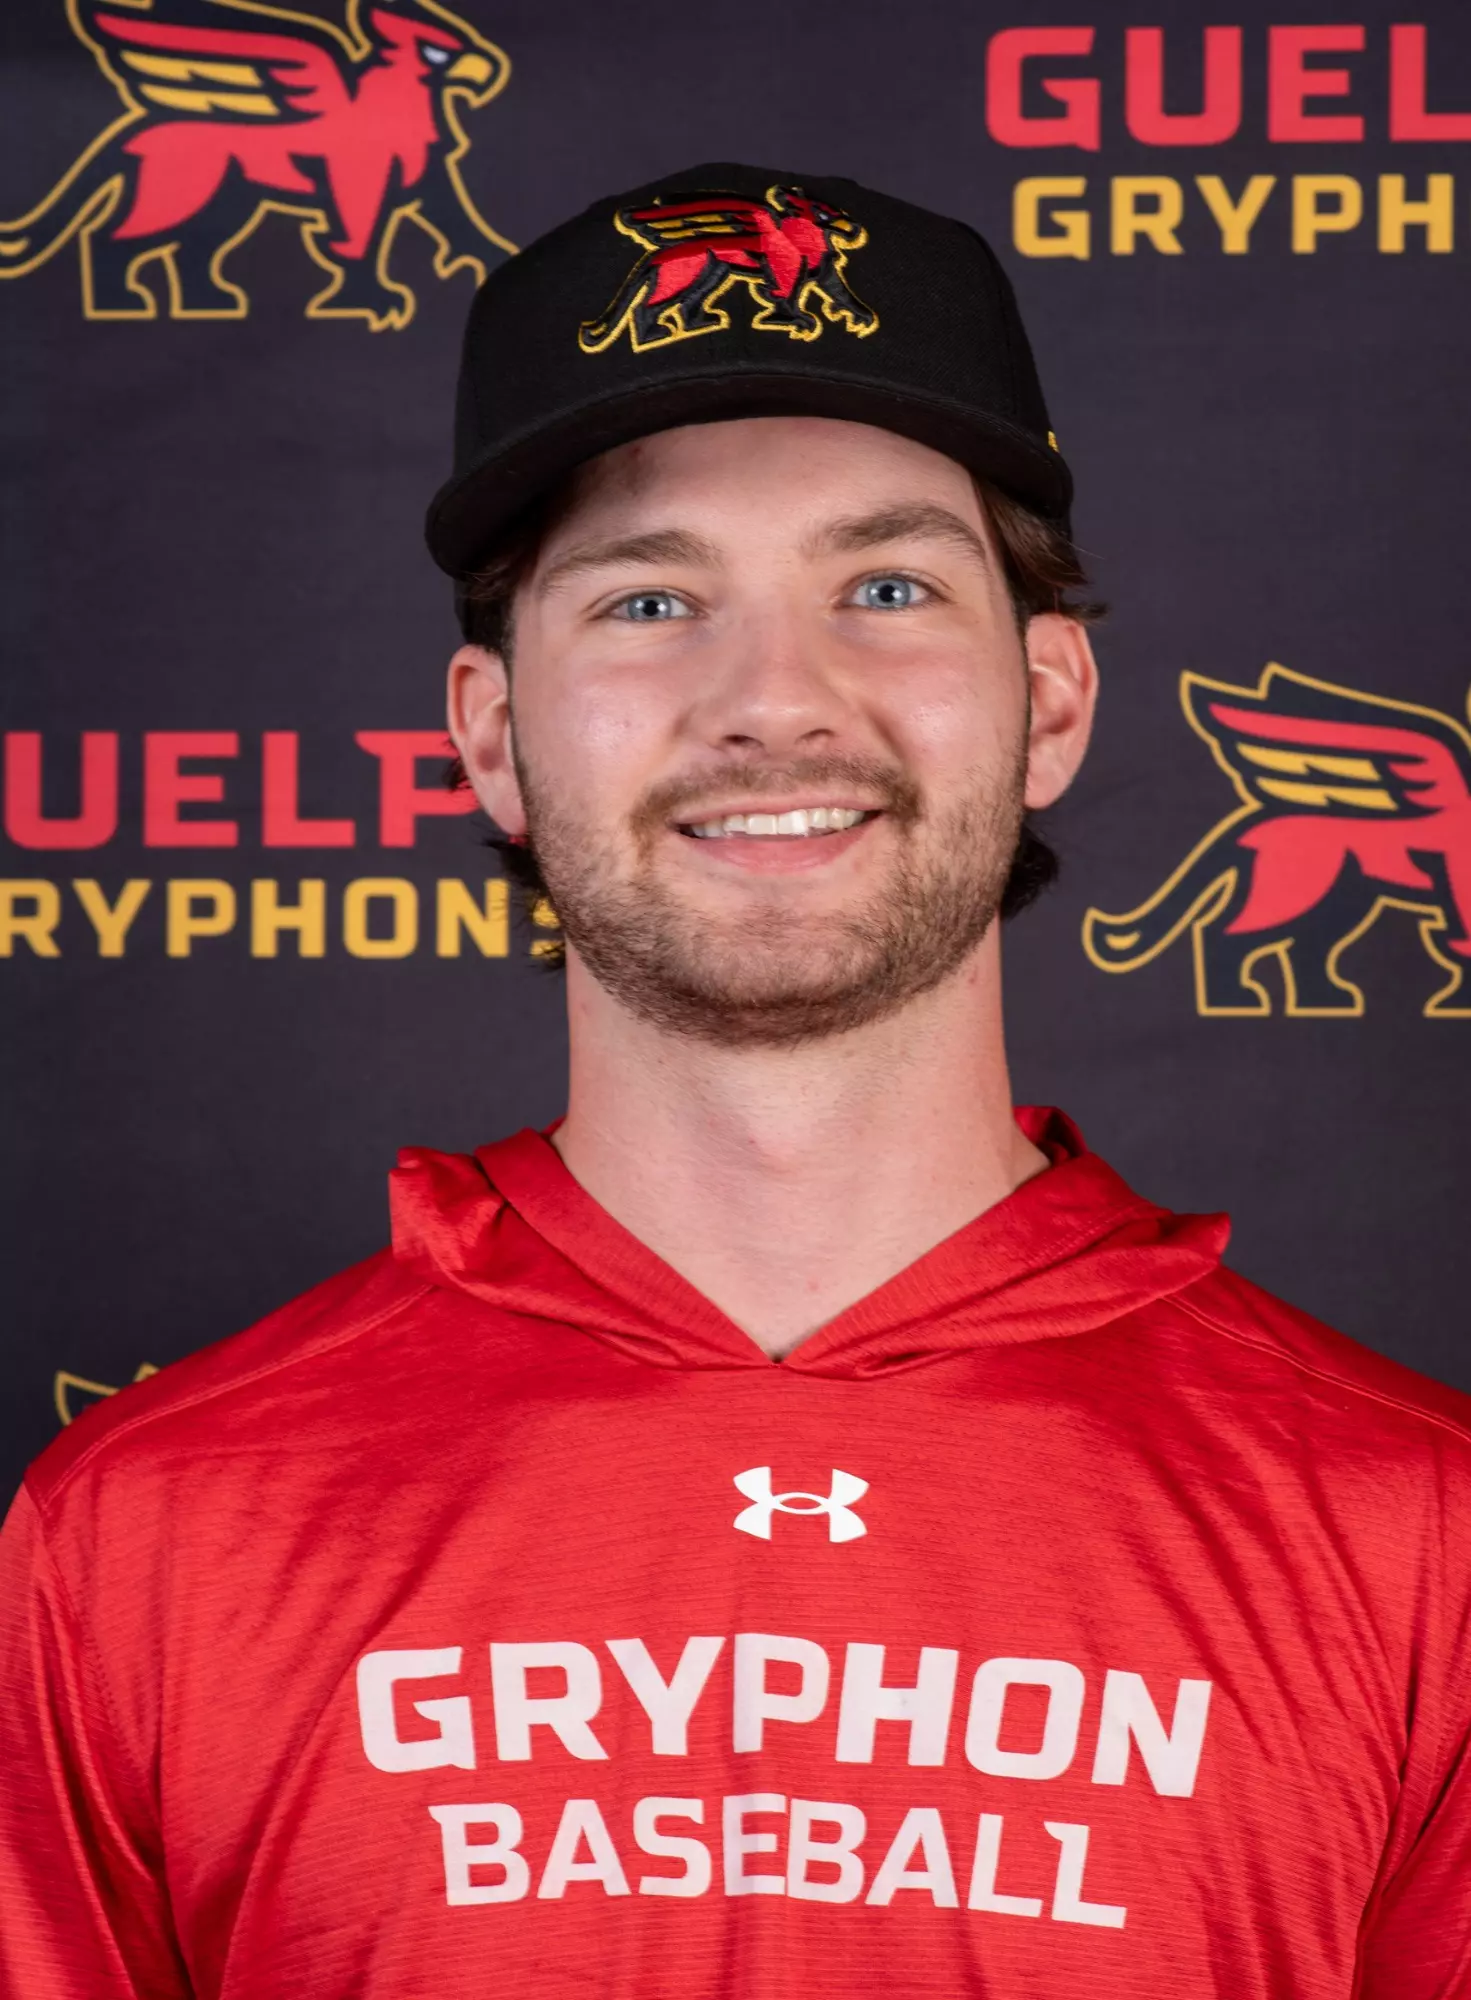
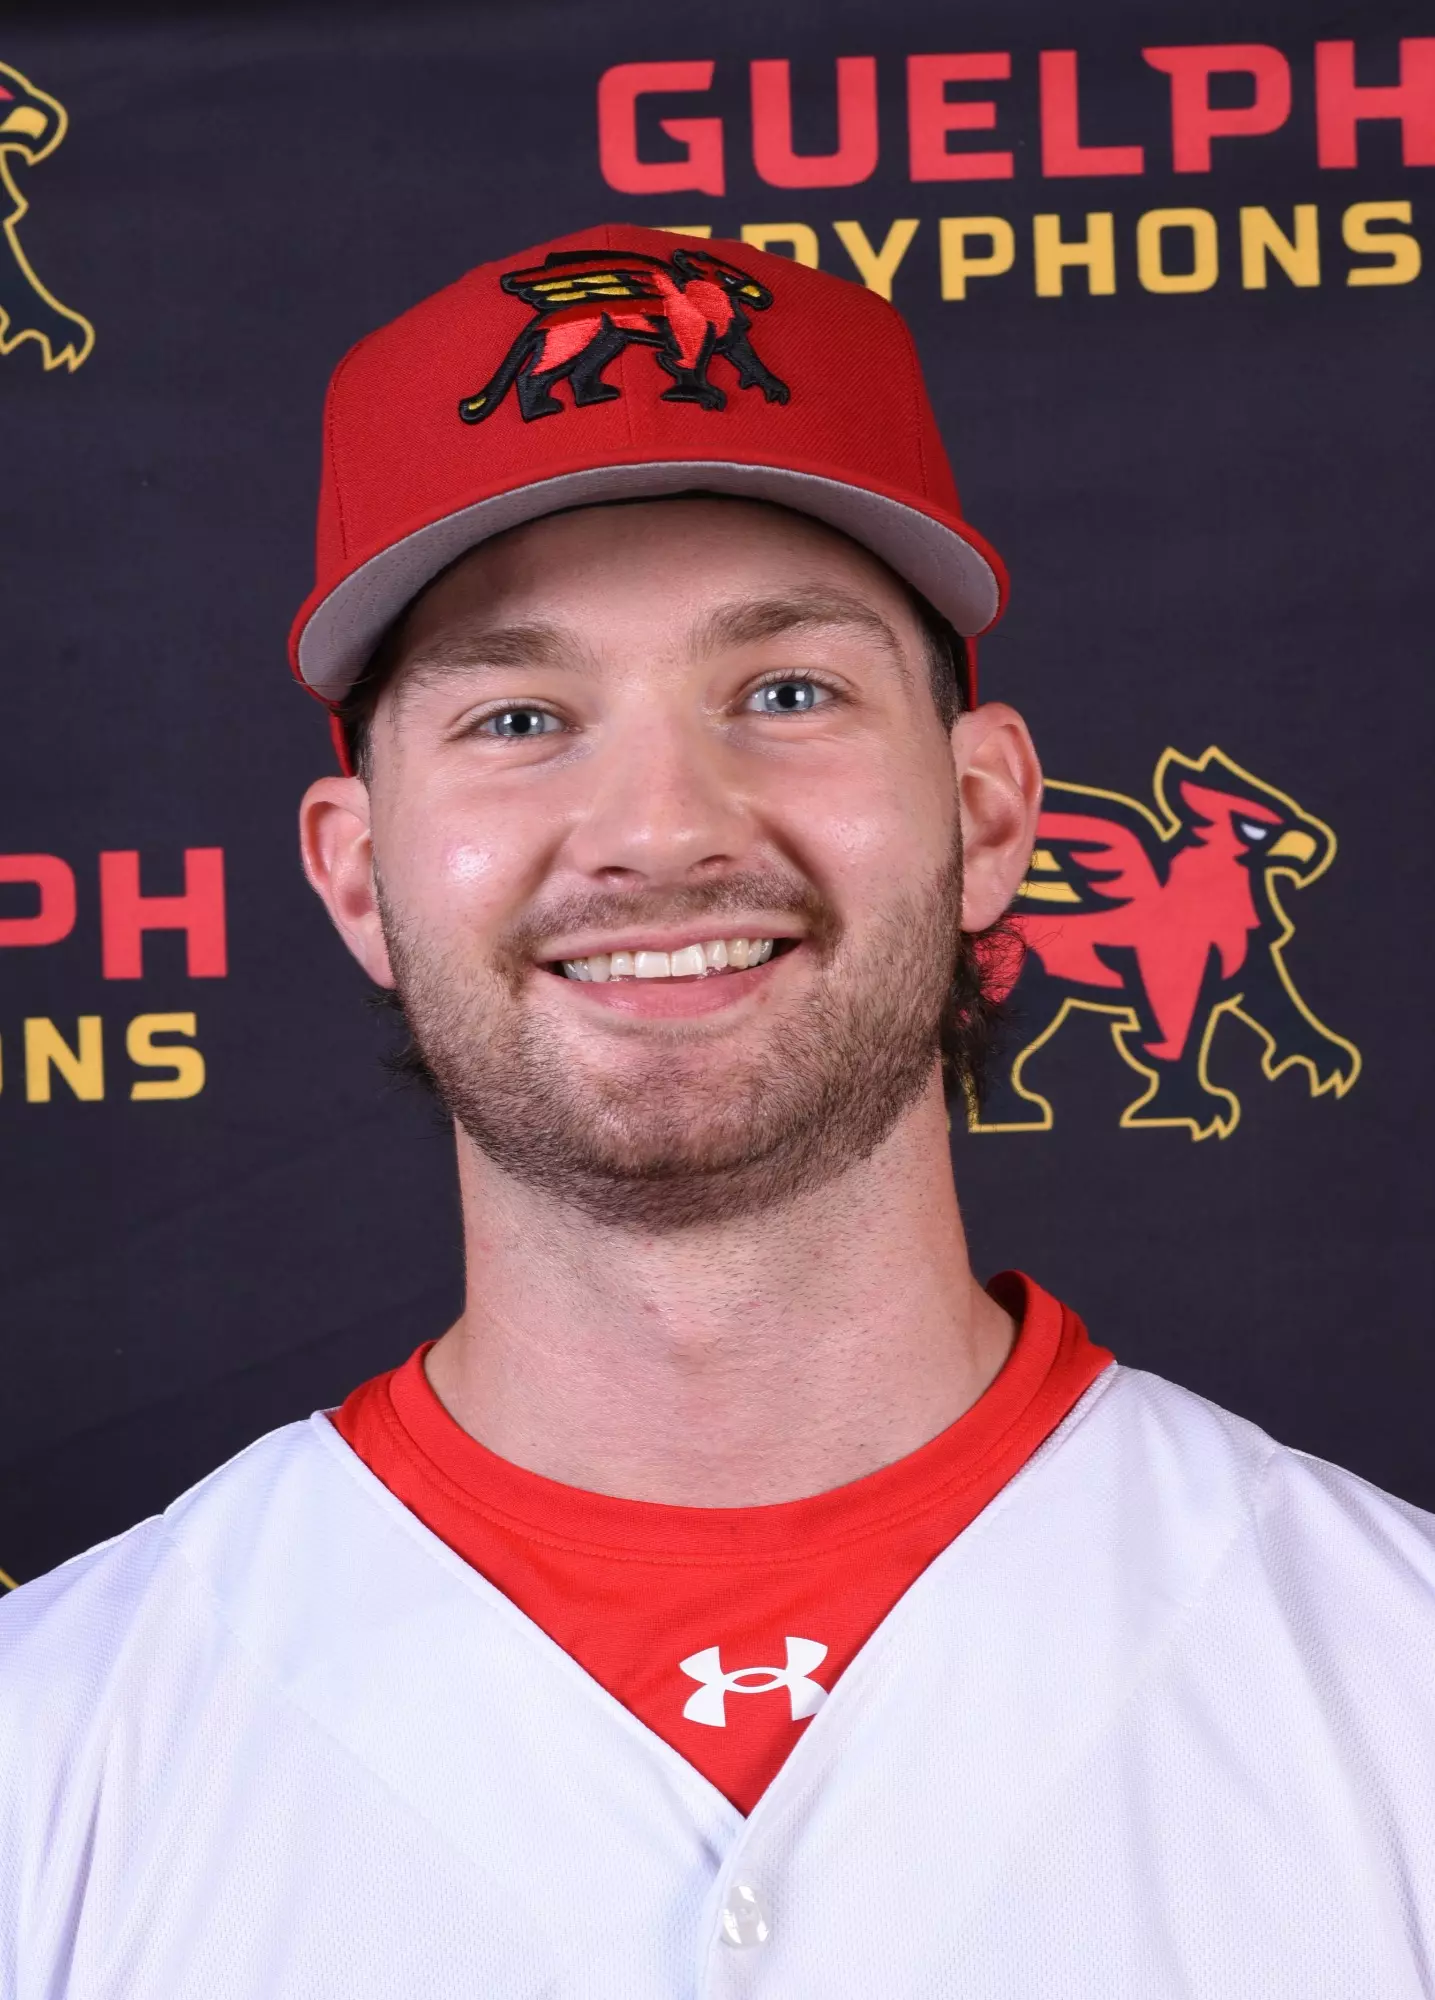
Refresh current Guelph roster headshots

diff --git a/oua/brock-dashboard/index.html b/oua/brock-dashboard/index.html
@@ -408,7 +408,7 @@
       };
       const slug=name=>String(name||'').normalize('NFD').replace(/[\u0300-\u036f]/g,'').toLowerCase().replace(/[^a-z0-9]+/g,'-').replace(/^-|-$/g,'');
       function headshotFiles(player){const team=slug(player?.pitcher_team),name=slug(player?.pitcher),key=`${team}:${name}`,base=team&&name?`${team}-${name}`:'',extensions=['jpg','jpeg','png','webp'],files=[headshotAliases[key],...extensions.map(extension=>`${base}.${extension}`)];if(team==='brock-badgers')files.push(...extensions.map(extension=>`${name}.${extension}`));return files.filter((value,index,items)=>value&&items.indexOf(value)===index)}
-      function renderHeadshot(){const player=state.current,holder=$('initials'),files=headshotFiles(player);holder.classList.remove('has-headshot');holder.innerHTML='';const fallback=()=>{holder.classList.remove('has-headshot');holder.textContent=initials(player?.pitcher)};const load=index=>{if(index>=files.length){fallback();return}const image=new Image();image.src=`headshots/${files[index]}?v=verified-roster-20260923`;image.alt=`${player.pitcher} headshot`;image.onload=()=>{holder.classList.add('has-headshot');holder.replaceChildren(image)};image.onerror=()=>load(index+1)};load(0)}
+      function renderHeadshot(){const player=state.current,holder=$('initials'),files=headshotFiles(player);holder.classList.remove('has-headshot');holder.innerHTML='';const fallback=()=>{holder.classList.remove('has-headshot');holder.textContent=initials(player?.pitcher)};const load=index=>{if(index>=files.length){fallback();return}const image=new Image();image.src=`headshots/${files[index]}?v=verified-roster-20260923-current`;image.alt=`${player.pitcher} headshot`;image.onload=()=>{holder.classList.add('has-headshot');holder.replaceChildren(image)};image.onerror=()=>load(index+1)};load(0)}
       ['player','team'].forEach(id=>$(id).addEventListener('change',()=>setTimeout(renderHeadshot,120)));document.querySelectorAll('[data-role]').forEach(button=>button.addEventListener('click',()=>setTimeout(renderHeadshot,120)));setTimeout(renderHeadshot,3000);
     })();
   </script>

diff --git a/oua/brock-dashboard/scouting.html b/oua/brock-dashboard/scouting.html
@@ -1887,7 +1887,7 @@ Zane Skansi,Kitchener Panthers`;
           ctx.beginPath();ctx.arc(size/2,size/2,size/2-5,0,Math.PI*2);ctx.lineWidth=10;ctx.strokeStyle='#cfd5f2';ctx.stroke();
           reportHeadshotData=c.toDataURL('image/png');resolve(reportHeadshotData);
         };
-        img.onerror=function(){next(i+1);};img.src=sources[i]+'?v=verified-roster-20260923';
+        img.onerror=function(){next(i+1);};img.src=sources[i]+'?v=verified-roster-20260923-current';
       } next(0);
     });
   }
